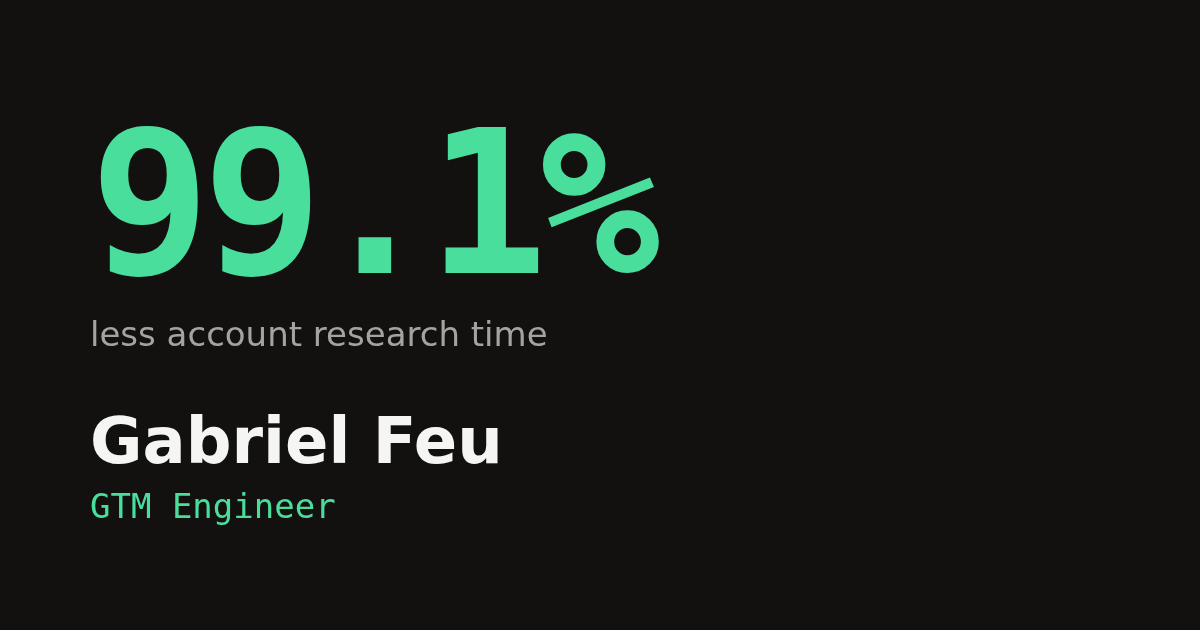
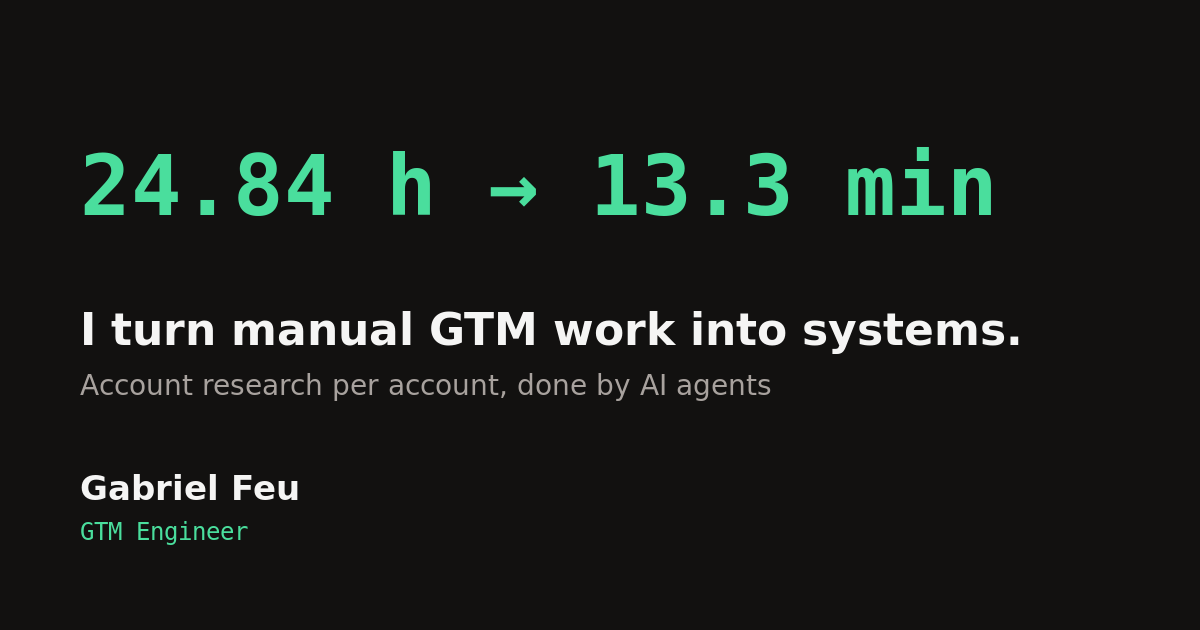
feat: rewrite About Me copy (v2) and regenerate og.png

diff --git a/index.html b/index.html
@@ -4,11 +4,11 @@
 <meta charset="utf-8">
 <meta name="viewport" content="width=device-width,initial-scale=1">
 <title>Gabriel Feu, GTM Engineer</title>
-<meta name="description" content="GTM Engineer building the systems behind revenue: research agents, lead routing, CRM automation and the data pipelines that feed them.">
+<meta name="description" content="I turn manual GTM work into systems. Research agents, lead routing, CRM automation and the data pipelines that feed them.">
 <link rel="canonical" href="https://gabrielfeu.github.io/main/">
 <meta property="og:type" content="website">
 <meta property="og:title" content="Gabriel Feu, GTM Engineer">
-<meta property="og:description" content="I build the systems behind revenue: research agents, lead routing, CRM automation and the data pipelines that feed them.">
+<meta property="og:description" content="I turn manual GTM work into systems. Research agents, lead routing, CRM automation and the data pipelines that feed them.">
 <meta property="og:url" content="https://gabrielfeu.github.io/main/">
 <meta property="og:image" content="https://gabrielfeu.github.io/main/og.png">
 <meta property="og:image:width" content="1200">
@@ -21,9 +21,10 @@
 <main>
 <header>
 <h1>Gabriel Feu</h1>
-<p class="title">GTM Engineer · Sales Operations · Workflow Automation</p>
-<p class="sub">I build the systems behind revenue: research agents, lead routing, CRM automation and the data pipelines that feed them.</p>
-<p class="loc">Based in Brazil (UTC-3) · Works US hours remotely · English (Cambridge C1) and Portuguese</p>
+<p class="title">GTM Engineer</p>
+<p class="sub">I turn manual GTM work into systems.</p>
+<p class="sub2">Research agents, lead routing, CRM automation and the data pipelines that feed them. I build them, measure them against a baseline, and keep them running.</p>
+<p class="loc">Brazil (UTC-3) · US hours · English C1, Portuguese native</p>
 <div class="btns">
 <a class="btn primary" href="mailto:gabrielfeu19@gmail.com">Email me</a>
 <a class="btn" href="https://www.linkedin.com/in/gabrielfeugomes">LinkedIn</a>
@@ -31,88 +32,88 @@
 </header>
 
 <section aria-labelledby="proof">
-<h2 id="proof">Proof in numbers</h2>
+<h2 id="proof">Results</h2>
 <div class="metrics">
-<div class="card"><span class="num">99.1%</span><h3>less account research time</h3><p>From 24.84 hours to 13.3 minutes per account, with AI research agents that qualify and enrich accounts before reps get them (88.9% accuracy).</p><span class="tag">AirGarage</span></div>
-<div class="card"><span class="num">$20K/yr</span><h3>saved</h3><p>By automating contact sourcing that virtual assistants used to do by hand.</p><span class="tag">AirGarage</span></div>
-<div class="card"><span class="num">3 h/day</span><h3>given back to a 5-rep sales team</h3><p>By automating deal routing and follow-up in HubSpot.</p><span class="tag">CardCash</span></div>
-<div class="card"><span class="num">+33%</span><h3>sales volume handled</h3><p>With no drop in touch, response or conversion rates.</p><span class="tag">CardCash</span></div>
+<div class="card"><span class="num">24.84 h → 13.3 min</span><p>Account research per account, done by AI agents before rep handoff. 99.1% faster, 88.9% accurate.</p><span class="tag">AIRGARAGE</span></div>
+<div class="card"><span class="num">$20K / yr</span><p>Manual contact sourcing by virtual assistants, replaced with an automated workflow.</p><span class="tag">AIRGARAGE</span></div>
+<div class="card"><span class="num">3 h / day</span><p>Given back to a 5-rep team by automating deal routing and follow-up in HubSpot.</p><span class="tag">CARDCASH</span></div>
+<div class="card"><span class="num">+33% volume</span><p>Handled by the same team, with no drop in touch, response or conversion rates.</p><span class="tag">CARDCASH</span></div>
 </div>
 </section>
 
 <section aria-labelledby="systems">
-<h2 id="systems">Systems I've built</h2>
+<h2 id="systems">What I've built</h2>
+<p class="lead">Each one started as someone's manual work.</p>
 <ul class="plain">
-<li><strong>AI account research agents <span class="tag">AirGarage, US parking tech</span></strong>Agents research, qualify and enrich target accounts before rep handoff. I calibrated their accuracy by hand-validating 5 to 7 priority leads a day and feeding what I found back into the workflow.</li>
-<li><strong>Opportunity-sourcing data pipeline <span class="tag">AirGarage</span></strong>A pipeline that finds parking facilities outside the current customer base and turns them into new pipeline for sales.</li>
-<li><strong>Automated contact sourcing <span class="tag">AirGarage</span></strong>Replaced manual virtual-assistant sourcing with an automated workflow: $20K a year saved.</li>
-<li><strong>Deal routing and follow-up engine <span class="tag">CardCash, gift-card marketplace</span></strong>HubSpot workflows that route deals and trigger follow-up automatically. Reps got 3 hours a day back and handled 33% more volume.</li>
-<li><strong>Executive sales dashboards <span class="tag">CardCash</span></strong>The dashboards leadership used to decide where to sell, tracking conversion, touch and meeting rates by industry and job title.</li>
-<li><strong>Playbooks and SOPs <span class="tag">AirGarage, CardCash</span></strong>I wrote the operating procedures for the sales research team, and standardized lead sourcing, qualification and CRM hygiene, so the systems kept working without me in the room.</li>
+<li><strong>Account research agents <span class="tag">AirGarage</span></strong>Agents that research, qualify and enrich target accounts before a rep sees them. I hand-validated 5 to 7 priority leads a day and fed the misses back into the workflow until accuracy held at 88.9%.</li>
+<li><strong>Opportunity pipeline <span class="tag">AirGarage</span></strong>A data pipeline that finds parking facilities outside the customer base and hands them to sales as new pipeline.</li>
+<li><strong>Contact sourcing <span class="tag">AirGarage</span></strong>Automated the sourcing virtual assistants used to do by hand. $20K a year saved.</li>
+<li><strong>Deal routing and follow-up <span class="tag">CardCash</span></strong>HubSpot workflows that route every deal and trigger the next touch automatically. Reps stopped doing admin and handled 33% more volume.</li>
+<li><strong>Executive dashboards <span class="tag">CardCash</span></strong>The dashboards leadership used to decide where to sell: conversion, touch and meeting rates by industry and job title.</li>
+<li><strong>Playbooks and SOPs <span class="tag">AirGarage, CardCash</span></strong>Written procedures for lead sourcing, qualification and CRM hygiene, so the systems kept working without me in the room.</li>
 </ul>
 <figure class="diagram">
 <svg viewBox="0 0 680 250" role="img" aria-labelledby="dt">
-<title id="dt">Flow: Signals, then Enrichment and research agents, Scoring and routing, CRM, Rep follow-up, Dashboards, and a feedback loop back to the agents.</title>
+<title id="dt">Flow: Signals, then Enrich and research, Score and route, CRM, Follow-up, Measure, and an arrow from Measure back to Enrich and research.</title>
 <defs><marker id="ah" viewBox="0 0 8 8" refX="7" refY="4" markerWidth="7" markerHeight="7" orient="auto"><path d="M0 0L8 4L0 8z" class="head"/></marker></defs>
 <g class="box"><rect x="10" y="20" width="190" height="52" rx="6" class="box"/><rect x="245" y="20" width="190" height="52" rx="6" class="box"/><rect x="480" y="20" width="190" height="52" rx="6" class="box"/>
 <rect x="480" y="150" width="190" height="52" rx="6" class="box"/><rect x="245" y="150" width="190" height="52" rx="6" class="box"/><rect x="10" y="150" width="190" height="52" rx="6" class="box"/></g>
 <g class="lbl" text-anchor="middle">
-<text x="105" y="42">Signals</text><text x="105" y="58" font-size="10.5">product + market data</text>
-<text x="340" y="42">Enrichment and</text><text x="340" y="58">research agents</text>
-<text x="575" y="42">Scoring and routing</text>
-<text x="575" y="172">CRM</text><text x="575" y="188" font-size="10.5">Salesforce / HubSpot</text>
-<text x="340" y="177">Rep follow-up</text>
-<text x="105" y="177">Dashboards</text></g>
+<text x="105" y="50">Signals</text>
+<text x="340" y="50">Enrich &amp; research</text>
+<text x="575" y="50">Score &amp; route</text>
+<text x="575" y="180">CRM</text>
+<text x="340" y="180">Follow-up</text>
+<text x="105" y="180">Measure</text></g>
 <path class="arrow" d="M200 46H243" marker-end="url(#ah)"/><path class="arrow" d="M435 46H478" marker-end="url(#ah)"/>
 <path class="arrow" d="M575 72V148" marker-end="url(#ah)"/><path class="arrow" d="M480 176H437" marker-end="url(#ah)"/><path class="arrow" d="M245 176H202" marker-end="url(#ah)"/>
 <path class="arrow" stroke-dasharray="5 4" d="M105 150V110H340V74" marker-end="url(#ah)"/>
-<text x="222" y="104" class="lbl" font-size="10.5" text-anchor="middle">feedback loop</text>
 </svg>
-<figcaption>The loop I build: signals in, the right follow-up out, accuracy measured and fed back.</figcaption>
+<figcaption>Signals in, the right follow-up out, accuracy measured and fed back. Same loop at every company.</figcaption>
 </figure>
 </section>
 
 <section aria-labelledby="approach">
-<h2 id="approach">How I'd approach GTM at Fredrin</h2>
-<p>My first 30 days, as I'd plan them from the outside. I'd revise it after talking with the founders.</p>
+<h2 id="approach">Fredrin, from the outside</h2>
+<p>What I'd do in my first 30 days. It's a hypothesis, and I'd rewrite it after a week of looking at your real data.</p>
 <ul class="plain">
-<li><strong>Instrument the funnel first.</strong>Wire download → sign-in → first ticket → first shipped change → team invite into one event model, connected to analytics, attribution and the CRM. You can't route or price what you can't see.</li>
-<li><strong>Route signups by product signal.</strong>Score new accounts on activation and team signals, enrich them automatically, and send team inquiries and high-intent workspaces to a founder's follow-up within minutes, not days.</li>
-<li><strong>Ship acquisition pages as experiments.</strong>Comparison and use-case pages for the AI coding tools developers already use, each with a measured conversion goal, shipped weekly.</li>
-<li><strong>Close the loop.</strong>A weekly written readout for the founders, covering what moved, what didn't and what we change next, so learning flows into positioning and pricing.</li>
+<li><strong>Measure activation</strong>One event model from download → sign-in → model connected → first ticket → first merged change → teammate invited, wired to PostHog and the CRM. My guess is that the biggest drop-off sits between install and the first merged change. I'd prove that or kill it in week one.</li>
+<li><strong>Route on product signal</strong>Score workspaces on activation and team signals, enrich them automatically, and get high-intent teams to a founder within minutes. "Talk to the founder" is a strong offer; the routing should make sure the right people see it.</li>
+<li><strong>Ship pages as experiments</strong>Comparison and use-case pages for developers who already run Claude Code or Codex, each with one conversion goal, shipped weekly and measured.</li>
+<li><strong>Write it down every week</strong>A short readout for the founders: what moved, what didn't, what changes next.</li>
 </ul>
 </section>
 
 <section aria-labelledby="stack">
 <h2 id="stack">Stack</h2>
-<ul class="stack"><li>Python</li><li>FastAPI</li><li>Postgres / SQL</li><li>n8n</li><li>Clay</li><li>Salesforce</li><li>HubSpot</li><li>ZoomInfo</li><li>AI agents and LLM workflows</li><li>Dashboards and reporting</li></ul>
+<ul class="stack"><li>Python</li><li>FastAPI</li><li>Postgres / SQL</li><li>Claude</li><li>n8n</li><li>Clay</li><li>Salesforce</li><li>HubSpot</li><li>ZoomInfo</li></ul>
 </section>
 
 <section aria-labelledby="bg">
 <h2 id="bg">Background</h2>
 <ul class="timeline">
-<li><strong>AirGarage</strong> (San Francisco, remote): Sales Operations Analyst, Aug 2026 to present. Sales Research Associate, Oct 2025 to Aug 2026.</li>
-<li><strong>CardCash</strong> (New Jersey, remote): Sales Operations Administrator, Jun 2024 to Oct 2025.</li>
-<li><strong>BRZ Insurance</strong> (Massachusetts, remote): Sales Executive and Retention Specialist, 2022 to 2024.</li>
-<li>Earlier: retail sales, Drogaria Araujo (Brazil).</li>
-<li>Education: Bachelor of Business Administration, Fundação Getulio Vargas (FGV), 2024. Professional Certification in AI (2025). HubSpot and ZoomInfo certifications (2025).</li>
+<li><strong>AirGarage</strong> · US parking tech, San Francisco · Sales Operations Analyst (Aug 2026 to now); Sales Research Associate (Oct 2025 to Aug 2026)</li>
+<li><strong>CardCash</strong> · gift-card marketplace, New Jersey · Sales Operations Administrator (Jun 2024 to Oct 2025)</li>
+<li><strong>BRZ Insurance</strong> · Massachusetts · Sales Executive and Retention Specialist (2022 to 2024)</li>
+<li><strong>Drogaria Araujo</strong> · Brazil · Retail sales (2020 to 2022)</li>
+<li><strong>FGV</strong> · Bachelor of Business Administration, 2024 · AI professional certification, 2025 · HubSpot and ZoomInfo certifications, 2025</li>
 </ul>
-<p class="note">I started in sales, so I build GTM systems from the rep's side of the handoff.</p>
+<p class="note">I carried a quota before I built systems, so I build them from the rep's side of the handoff.</p>
 </section>
 
 <section aria-labelledby="work">
 <h2 id="work">How I work</h2>
 <ul class="plain">
-<li><strong>Written first:</strong> I've written the playbooks and SOPs teams actually run on.</li>
-<li><strong>Self-directed:</strong> I find the manual step, automate it, measure it, and move on to the next one.</li>
-<li><strong>Async across time zones:</strong> four-plus years working remotely for US teams from Brazil.</li>
+<li><strong>Written first.</strong> Teams have run on the playbooks I wrote.</li>
+<li><strong>Self-directed.</strong> Find the manual step, automate it, measure it, move on.</li>
+<li><strong>Async.</strong> Remote for US teams from Brazil since 2024.</li>
 </ul>
 </section>
 </main>
 <footer>
-<p>Built with Fredrin as part of my application. <a href="https://github.com/GabrielFeu/main">Source on GitHub</a></p>
+<p>Built with Fredrin as part of my application · <a href="https://github.com/GabrielFeu/main">Source on GitHub</a></p>
 <p>This page: <a href="https://gabrielfeu.github.io/main/">https://gabrielfeu.github.io/main/</a></p>
-<p>Email: <a href="mailto:gabrielfeu19@gmail.com">gabrielfeu19@gmail.com</a> · LinkedIn: <a href="https://www.linkedin.com/in/gabrielfeugomes">linkedin.com/in/gabrielfeugomes</a></p>
+<p><a href="mailto:gabrielfeu19@gmail.com">gabrielfeu19@gmail.com</a> · <a href="https://www.linkedin.com/in/gabrielfeugomes">linkedin.com/in/gabrielfeugomes</a></p>
 </footer>
 </body>
 </html>

diff --git a/style.css b/style.css
@@ -10,6 +10,8 @@ h2{font:600 .8rem/1.4 ui-monospace,SFMono-Regular,Menlo,Consolas,monospace;text-
 a{color:var(--accent)}
 .title{font-family:ui-monospace,SFMono-Regular,Menlo,Consolas,monospace;font-size:.9rem;color:var(--muted);margin:0 0 16px}
 .sub{font-size:1.15rem;margin:0 0 12px}
+.sub2{margin:0 0 12px}
+.lead{margin:0 0 18px}
 .loc{color:var(--muted);font-size:.95rem;margin:0 0 20px}
 .btns{display:flex;gap:12px;flex-wrap:wrap}
 .btn{display:inline-block;padding:10px 18px;border-radius:6px;border:1px solid var(--accent);text-decoration:none;font-weight:600;color:var(--accent)}
@@ -17,9 +19,9 @@ a{color:var(--accent)}
 .btn:focus-visible,a:focus-visible{outline:3px solid var(--fg);outline-offset:2px}
 .metrics{display:grid;grid-template-columns:1fr 1fr;gap:14px;margin-top:0}
 .card{background:var(--card);border:1px solid var(--line);border-radius:8px;padding:18px}
-.num{display:block;font:700 2.6rem/1.1 ui-monospace,SFMono-Regular,Menlo,Consolas,monospace;color:var(--accent);letter-spacing:-.03em}
+.num{display:block;font:700 2rem/1.15 ui-monospace,SFMono-Regular,Menlo,Consolas,monospace;color:var(--accent);letter-spacing:-.03em}
 .card h3{font-size:1rem;margin:6px 0 6px}
-.card p{margin:0 0 8px;font-size:.92rem;color:var(--muted)}
+.card p{margin:6px 0 8px;font-size:.92rem;color:var(--muted)}
 .tag{font:.75rem ui-monospace,SFMono-Regular,Menlo,Consolas,monospace;color:var(--muted)}
 ul.plain{list-style:none;padding:0;margin:0}
 ul.plain li{margin:0 0 18px}
